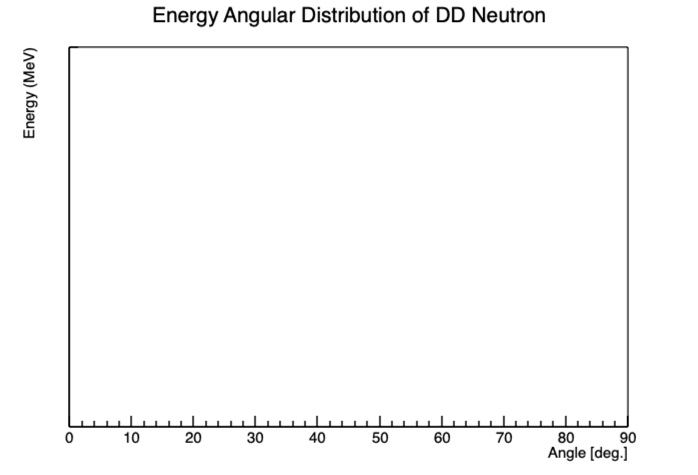
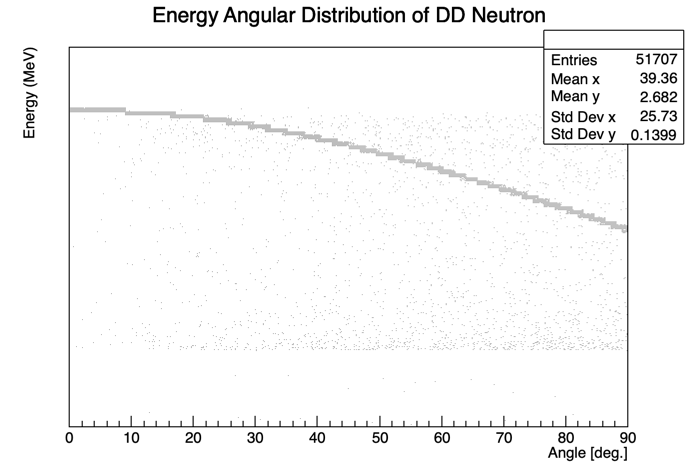
ROOT-based Source Energy Angular Distribution Analysis Implemented

diff --git a/Janis-build/source_check.C b/Janis-build/source_check.C
@@ -38,14 +38,14 @@ struct PlotCollection{
 
 	string fname;
 
-	map<pair<string,int>, TH2F*> energy_angle;  // source energy VS detector angle
-	map<pair<string,int>, TH1D*> angle_histo;	// source angle distribution
-
 	int energy_min = 2;
 	int energy_max = 3;
 	int nbins_angle = 100;
 	int angle_min = 0;
 	int angle_max = 90;
+
+	TH2F *hXY = new TH2F("","", 100, angle_min , angle_max, 100, energy_min, energy_max);  // source energy VS detector angle
+	map<pair<string,int>, TH1D*> angle_histo;	// source angle distribution
 
 
 	map<string, int> colors;
@@ -59,16 +59,13 @@ struct PlotCollection{
 		if(angle_histo.count(key) == 0){
 			angle_histo[key] = new TH1D("", "", nbins_angle, angle_min, angle_max);
 		}
-		if(energy_angle.count(key) == 0){
-			energy_angle[key] = new TH2F("","", 100, angle_min , angle_max, 100, energy_min, energy_max);
-		}
 
 		// Fill histograms with event
 		double angle_filled = TMath::ACos(x_mom/TMath::Power(TMath::Power(x_mom,2) + TMath::Power(y_mom,2) + TMath::Power(z_mom,2),0.5)) * 180.0 / TMath::Pi();
 		//cout << endl << "The detected angle of " << fname << ": " << angle_filled << endl << endl;
 		// if(x_mom < 0){cout << x_mom << endl;}
 		angle_histo[key]->Fill(angle_filled, w);
-		energy_angle[key]->Fill(angle_filled, E, w);
+		hXY->Fill(angle_filled, E);
 	}
 
 	void DrawAngleDistribution(){
@@ -119,49 +116,18 @@ struct PlotCollection{
 	}
 
 	void DrawEnergyDistribution(){
-		THStack* hXY = new THStack;
-		TLegend* leg = new TLegend(0.75, 0.65, 0.99, 0.85);
-
-		for(auto it : energy_angle){
-			string ll = it.first.first;
-			if (it.first.second == 2112){
-				ll += "";
-			} else {
-				cout << "unsorted PID: " << it.first.second << endl;
-			}
-
-			int color = colors[ll];
-			it.second->SetLineColor(color);
-			it.second->SetLineWidth(3);
-
-			it.second->Scale(1/it.second->GetBinWidth(1), "noSumw2");
-
-			if(it.first.second == 2112){
-				hXY->Add(it.second);
-				leg->AddEntry(it.second, ll.c_str(), "F");
-				//cout << ll << ": " << it.second->Integral(0, nbins_energy, "width") << " cts / sec " << endl;
-			}
-
-			for(int ibin=1; ibin<= it.second->GetNbinsX(); ++ibin){
-        		it.second->SetBinError(ibin, 0);
-      		}
-		}
 
 		TCanvas* c = new TCanvas();
 		c->SetLogy();
 
 
-		hXY->Draw("nostack");
+		hXY->Draw();
 
 		hXY->SetTitle(fname.c_str());
 
 		hXY->GetXaxis()->SetTitle("Angle [deg.]");
 		hXY->GetYaxis()->SetTitle("Energy (MeV)");
 
-		//leg->SetTextSize(0.03);
-    	//leg->Draw("same");
-
-    	// c->SaveAs(("angle_distribution_" + fname + ".pdf").c_str());
         c->SaveAs((fname + ".png").c_str());
 	}
 };

diff --git a/Janis/source_check.C b/Janis/source_check.C
@@ -38,14 +38,14 @@ struct PlotCollection{
 
 	string fname;
 
-	map<pair<string,int>, TH2F*> energy_angle;  // source energy VS detector angle
-	map<pair<string,int>, TH1D*> angle_histo;	// source angle distribution
-
 	int energy_min = 2;
 	int energy_max = 3;
 	int nbins_angle = 100;
 	int angle_min = 0;
 	int angle_max = 90;
+
+	TH2F *hXY = new TH2F("","", 100, angle_min , angle_max, 100, energy_min, energy_max);  // source energy VS detector angle
+	map<pair<string,int>, TH1D*> angle_histo;	// source angle distribution
 
 
 	map<string, int> colors;
@@ -59,16 +59,13 @@ struct PlotCollection{
 		if(angle_histo.count(key) == 0){
 			angle_histo[key] = new TH1D("", "", nbins_angle, angle_min, angle_max);
 		}
-		if(energy_angle.count(key) == 0){
-			energy_angle[key] = new TH2F("","", 100, angle_min , angle_max, 100, energy_min, energy_max);
-		}
 
 		// Fill histograms with event
 		double angle_filled = TMath::ACos(x_mom/TMath::Power(TMath::Power(x_mom,2) + TMath::Power(y_mom,2) + TMath::Power(z_mom,2),0.5)) * 180.0 / TMath::Pi();
 		//cout << endl << "The detected angle of " << fname << ": " << angle_filled << endl << endl;
 		// if(x_mom < 0){cout << x_mom << endl;}
 		angle_histo[key]->Fill(angle_filled, w);
-		energy_angle[key]->Fill(angle_filled, E, w);
+		hXY->Fill(angle_filled, E);
 	}
 
 	void DrawAngleDistribution(){
@@ -119,49 +116,18 @@ struct PlotCollection{
 	}
 
 	void DrawEnergyDistribution(){
-		THStack* hXY = new THStack;
-		TLegend* leg = new TLegend(0.75, 0.65, 0.99, 0.85);
-
-		for(auto it : energy_angle){
-			string ll = it.first.first;
-			if (it.first.second == 2112){
-				ll += "";
-			} else {
-				cout << "unsorted PID: " << it.first.second << endl;
-			}
-
-			int color = colors[ll];
-			it.second->SetLineColor(color);
-			it.second->SetLineWidth(3);
-
-			it.second->Scale(1/it.second->GetBinWidth(1), "noSumw2");
-
-			if(it.first.second == 2112){
-				hXY->Add(it.second);
-				leg->AddEntry(it.second, ll.c_str(), "F");
-				//cout << ll << ": " << it.second->Integral(0, nbins_energy, "width") << " cts / sec " << endl;
-			}
-
-			for(int ibin=1; ibin<= it.second->GetNbinsX(); ++ibin){
-        		it.second->SetBinError(ibin, 0);
-      		}
-		}
 
 		TCanvas* c = new TCanvas();
 		c->SetLogy();
 
 
-		hXY->Draw("nostack");
+		hXY->Draw();
 
 		hXY->SetTitle(fname.c_str());
 
 		hXY->GetXaxis()->SetTitle("Angle [deg.]");
 		hXY->GetYaxis()->SetTitle("Energy (MeV)");
 
-		//leg->SetTextSize(0.03);
-    	//leg->Draw("same");
-
-    	// c->SaveAs(("angle_distribution_" + fname + ".pdf").c_str());
         c->SaveAs((fname + ".png").c_str());
 	}
 };
